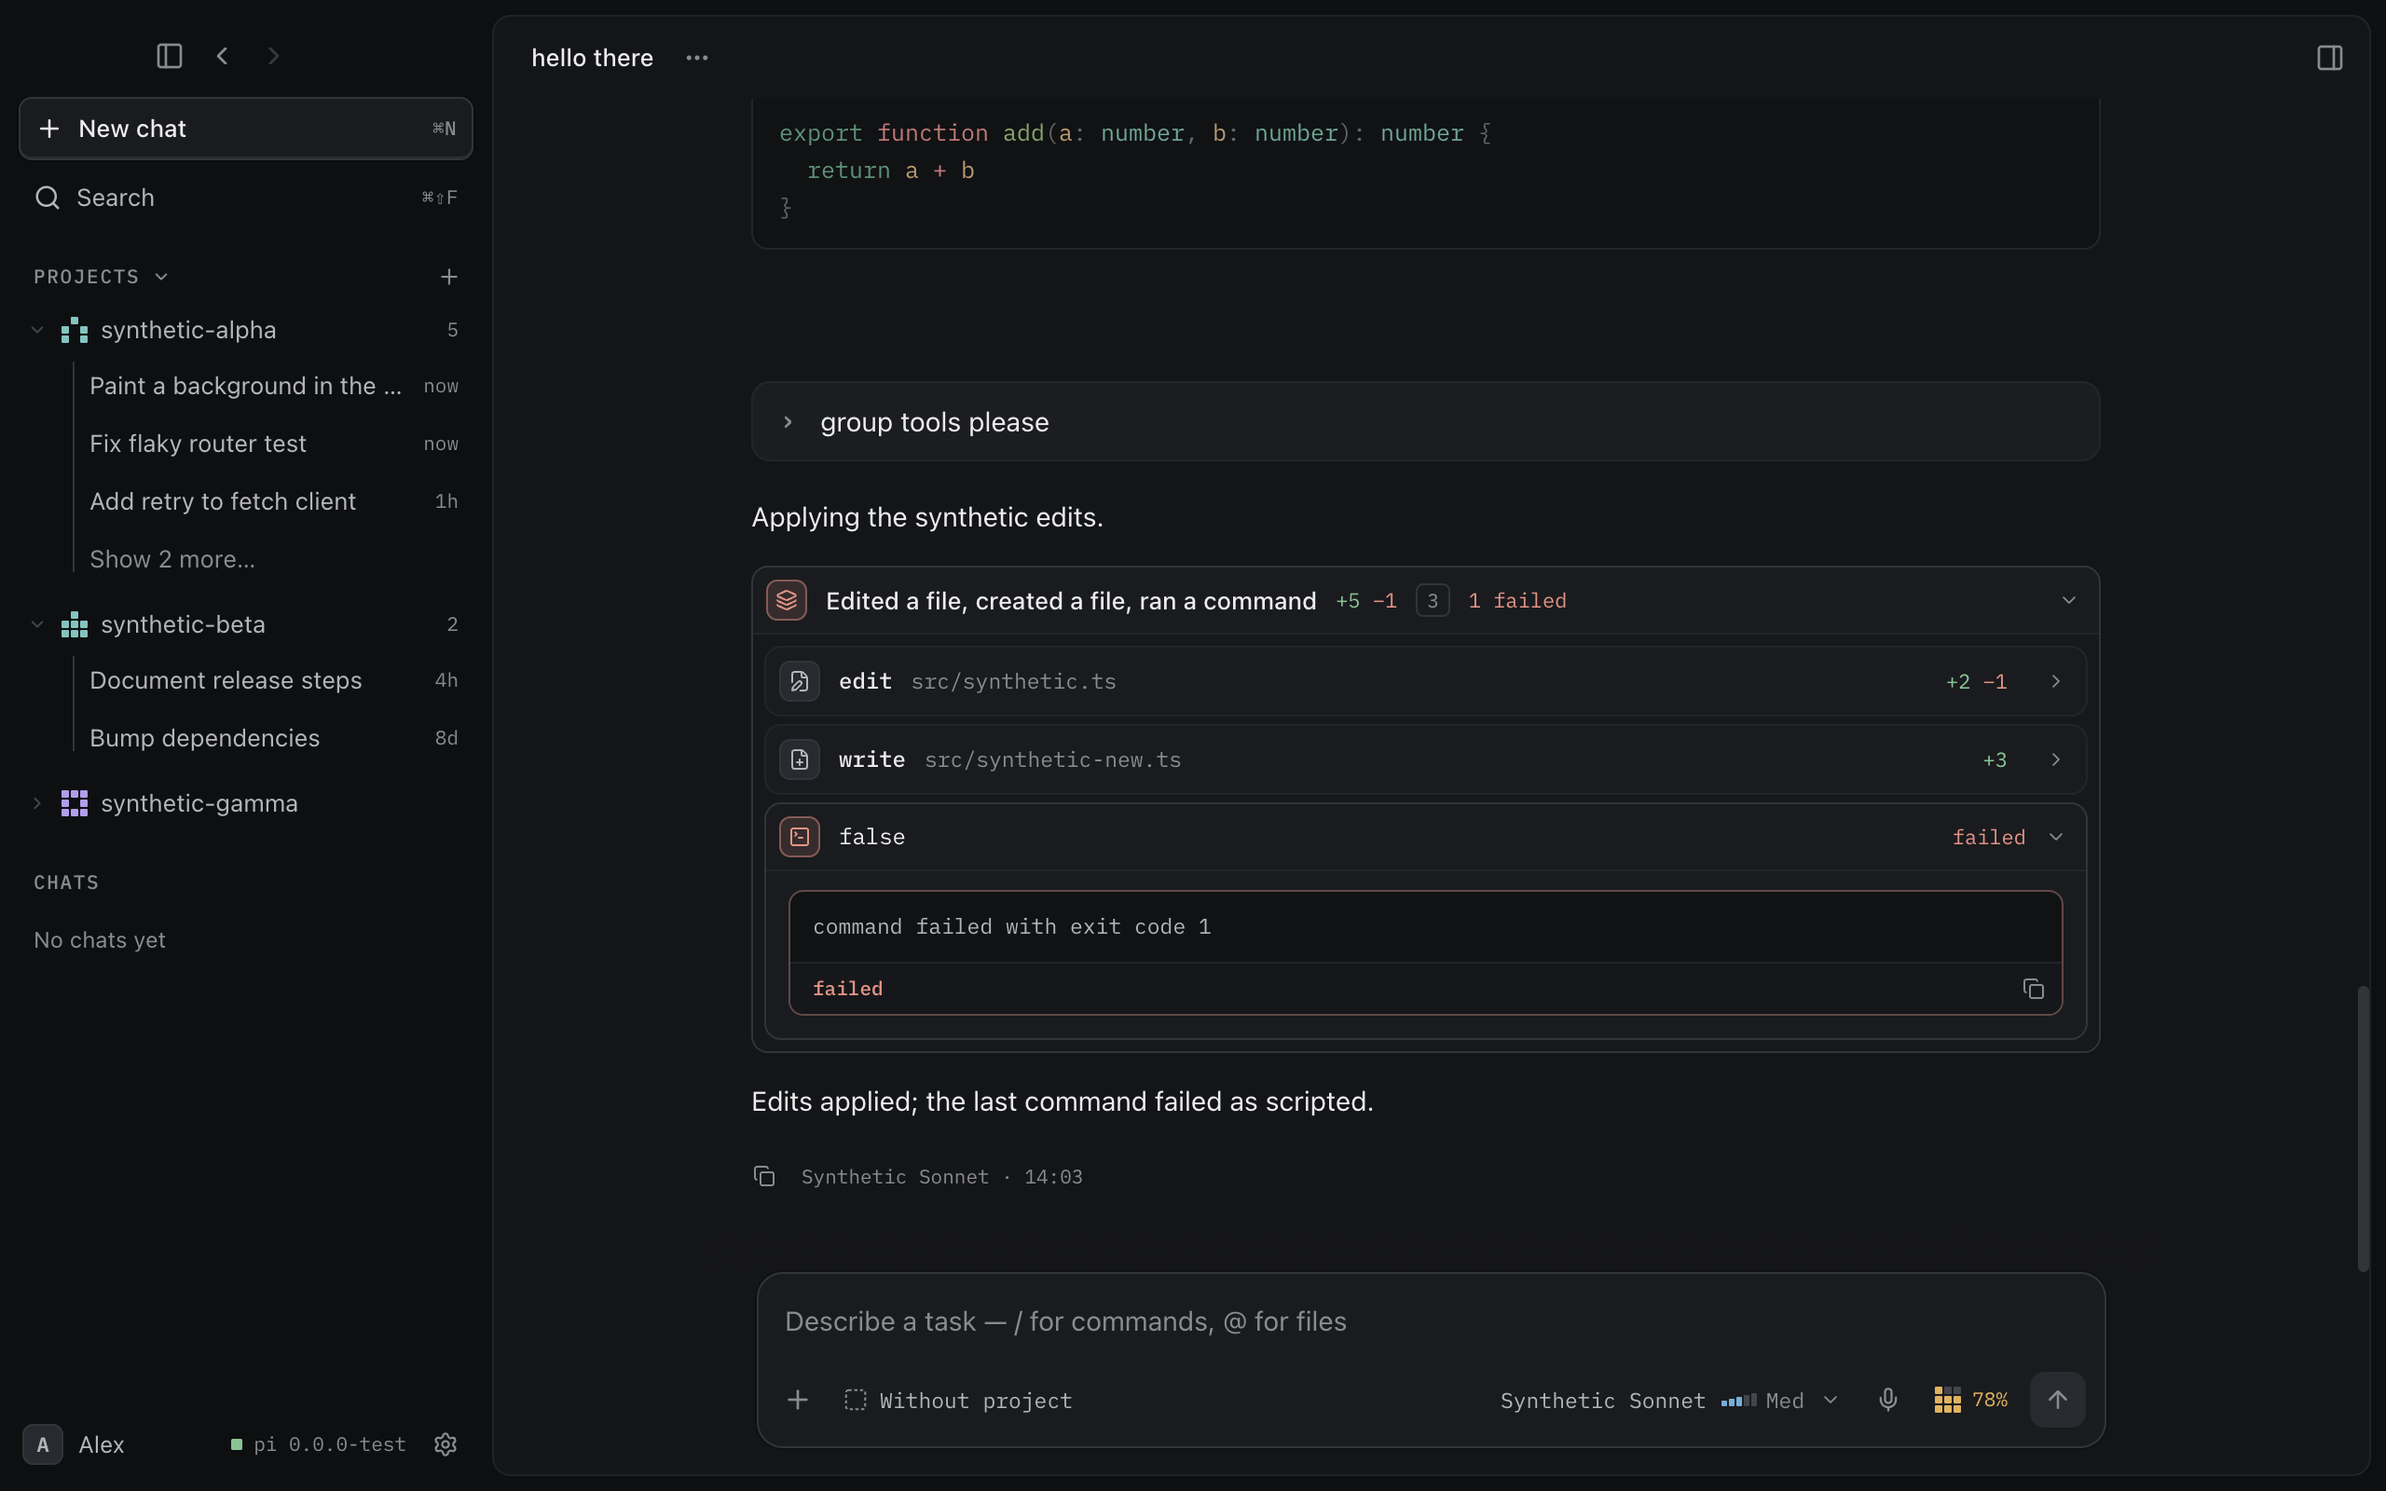
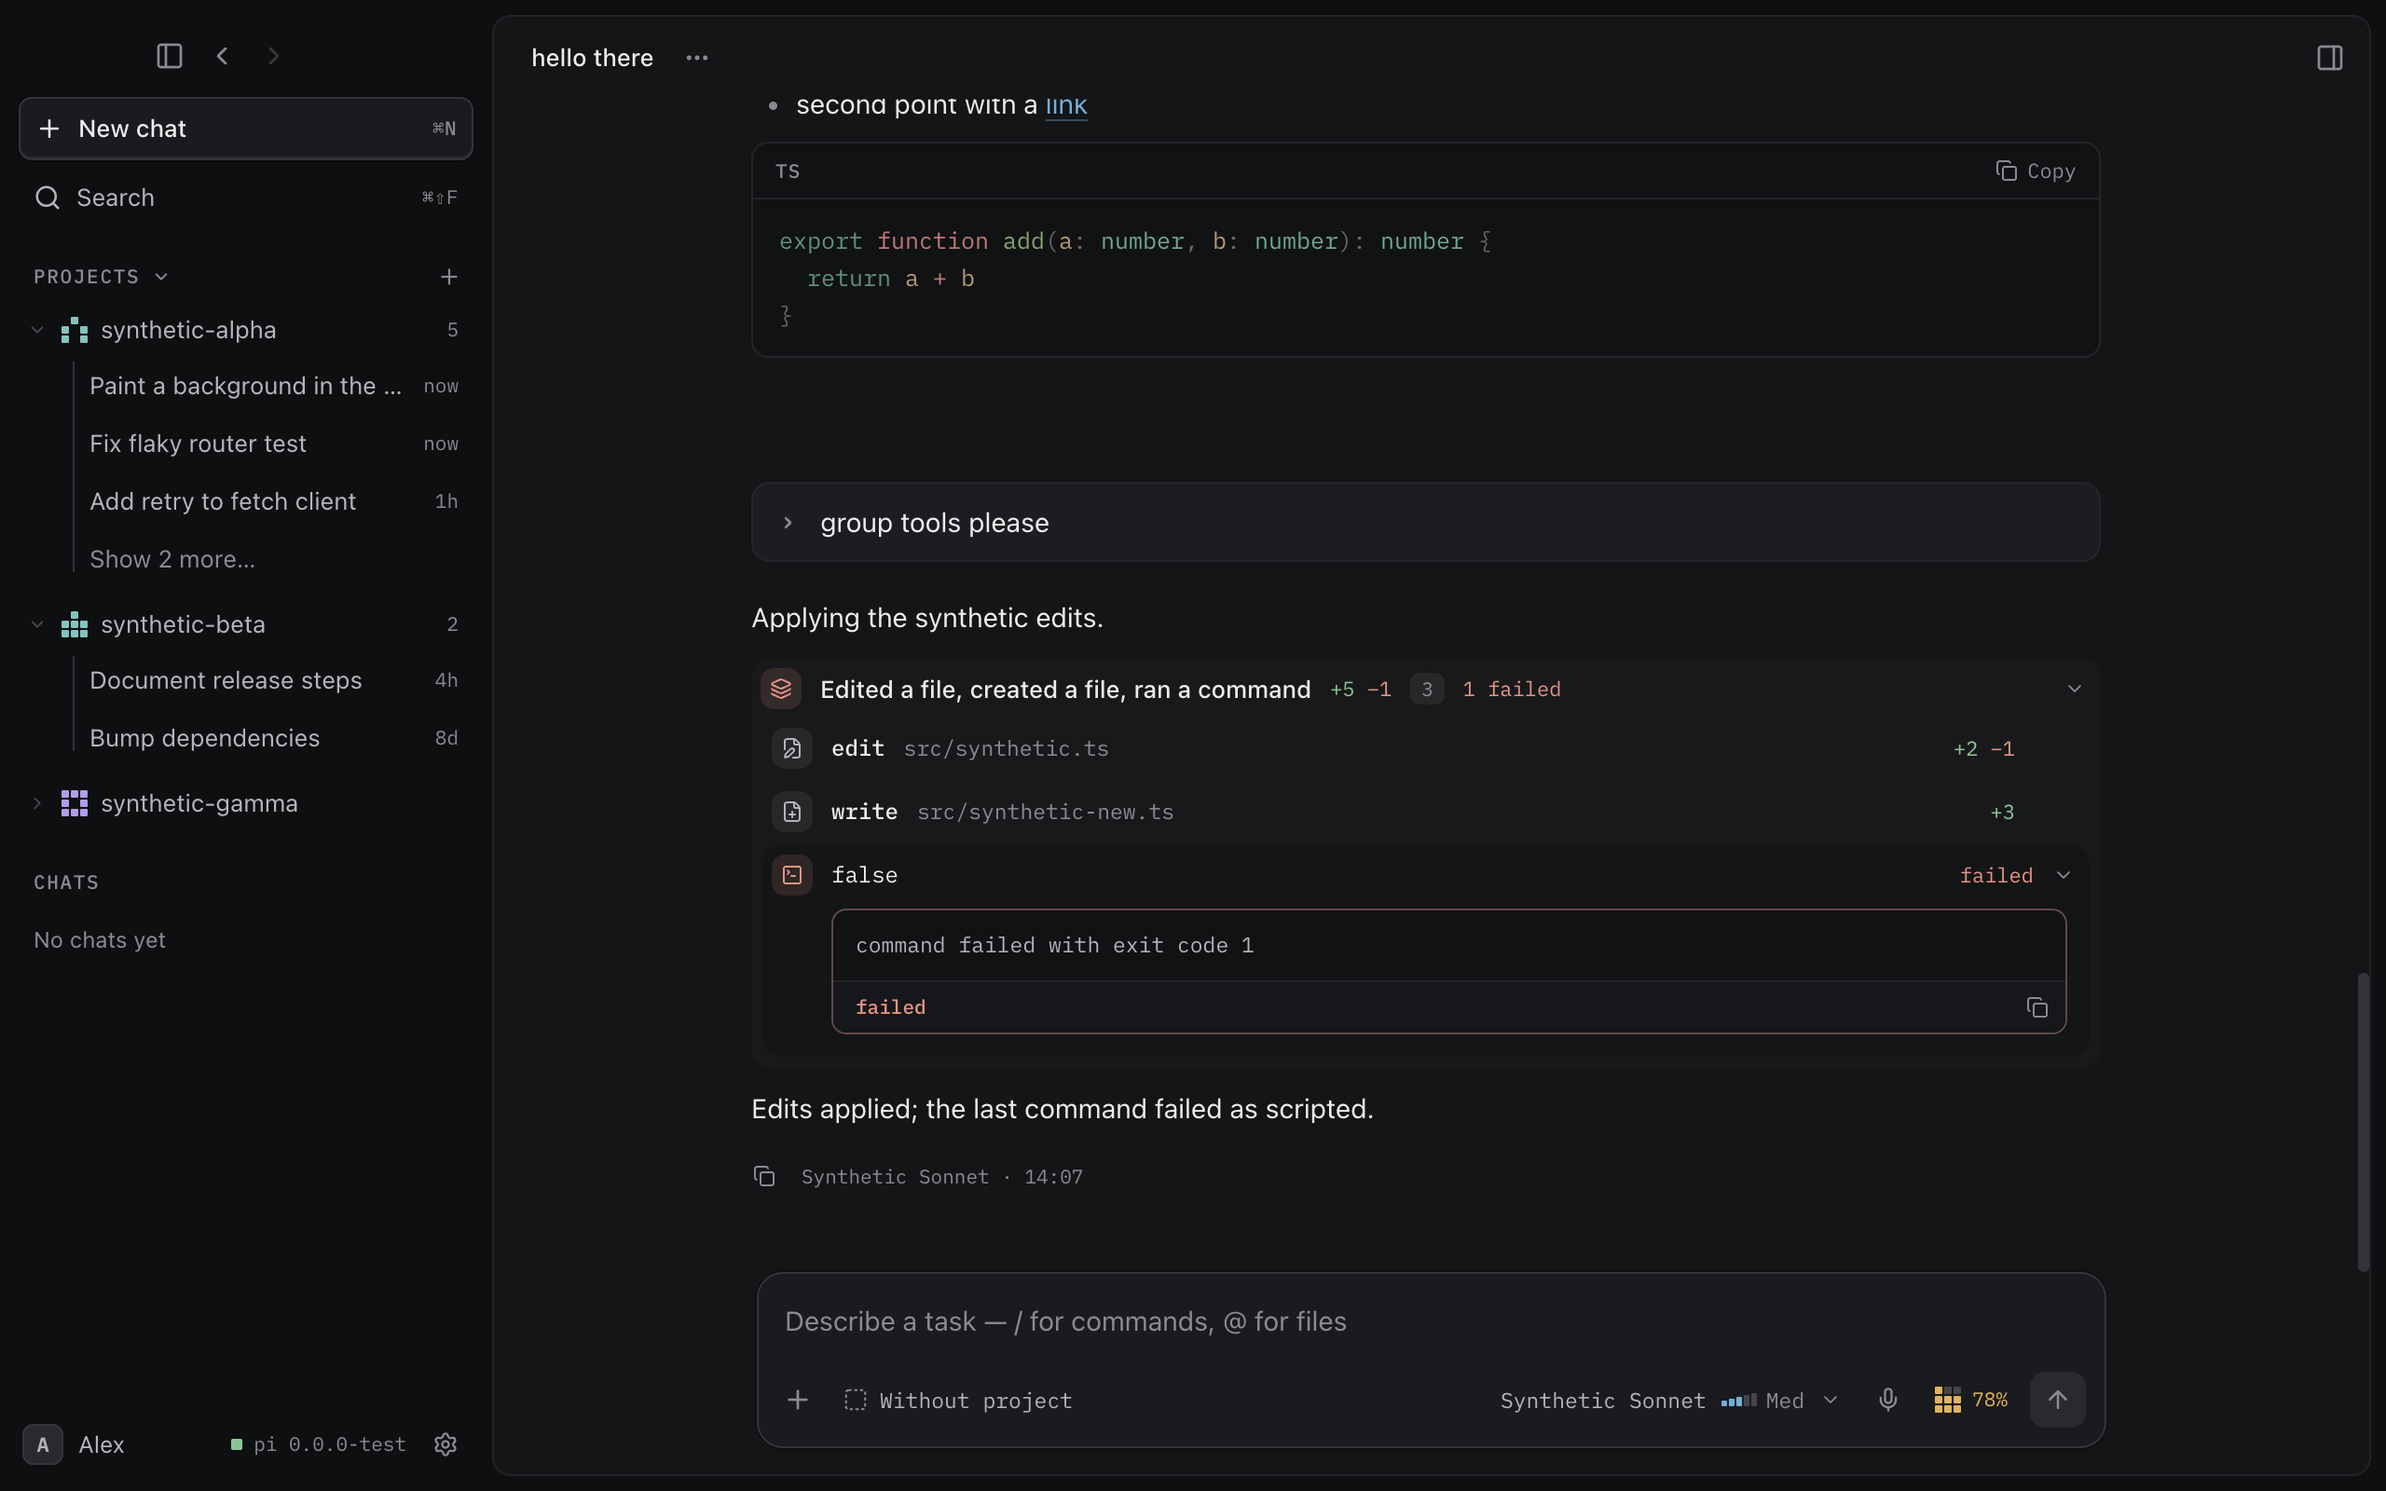
Soften trace steps into a borderless list
The bordered step cards read as heavy. Steps are now borderless rows with
a soft icon tile (kind glyph, state color); hover lifts a row onto a faint
ground, an open step sits on that ground with its detail inside, and a
single chevron turns as it opens. Opening plays a short one-shot settle
(skipped with reduced motion). Rows stack 2px apart.

diff --git a/src/renderer/src/styles/chat.css b/src/renderer/src/styles/chat.css
@@ -227,7 +227,7 @@
   line-height: 1.65;
   display: flex;
   flex-direction: column;
-  gap: 6px;
+  gap: 2px;
 }
 .msg-assistant > :is(.markdown, .msg-image, .msg-error) {
   margin: 8px 0;
@@ -241,7 +241,7 @@
 .msg-turn {
   display: flex;
   flex-direction: column;
-  gap: 6px;
+  gap: 2px;
 }
 /* Prose that opens a message after trace rows gets its gap back. */
 .msg-turn > * + .msg-assistant > .markdown:first-child {
@@ -697,28 +697,21 @@
 }
 
 /* ---------- Trace: thinking and tool calls ----------
- * Every step of agent work is a small card: an icon tile that tells its
- * kind (terminal, file, reasoning…) and, by its color, its state; a one-line
- * header; the detail opens inside the card. */
+ * Agent work reads as a soft list: each step is a row with an icon tile
+ * (its kind; its color is the state), no borders. Hover lifts a row onto a
+ * faint ground; an open step sits on that ground with its detail inside. */
 
 .tool-card,
 .thinking-block {
   display: flex;
   flex-direction: column;
   min-width: 0;
-  border: 1px solid var(--border);
-  border-radius: 9px;
-  background: var(--surface);
-  overflow: hidden;
-  transition: border-color 120ms;
+  border-radius: 10px;
+  transition: background 160ms ease;
 }
-.tool-card:hover,
-.thinking-block:hover {
-  border-color: var(--border-strong);
-}
-/* Reasoning is quieter than actions: no fill, just the outline. */
-.thinking-block {
-  background: transparent;
+.tool-card.is-open,
+.thinking-block.is-open {
+  background: color-mix(in srgb, var(--surface) 75%, transparent);
 }
 
 .tool-row,
@@ -728,25 +721,27 @@
   gap: 10px;
   width: 100%;
   min-width: 0;
-  height: 36px;
+  height: 32px;
   border: none;
   background: transparent;
   color: var(--text-2);
   font-size: 12.5px;
   font-family: inherit;
-  padding: 0 10px 0 7px;
-  border-radius: 0;
+  padding: 0 8px 0 5px;
+  border-radius: 8px;
   cursor: pointer;
   text-align: left;
-  transition: background 120ms;
+  transition:
+    background 160ms ease,
+    color 160ms ease;
 }
 .tool-row:hover,
 .thinking-row:hover {
-  background: var(--surface-hover);
+  background: color-mix(in srgb, var(--surface-hover) 80%, transparent);
 }
-.tool-card.is-open > .tool-row,
-.thinking-block.is-open > .thinking-row {
-  border-bottom: 1px solid var(--border);
+.tool-card.is-open > .tool-row:hover,
+.thinking-block.is-open > .thinking-row:hover {
+  background: transparent;
 }
 
 /* Icon tile: kind glyph; color = state. */
@@ -756,21 +751,21 @@
   justify-content: center;
   width: 22px;
   height: 22px;
-  border-radius: 6px;
+  border-radius: 7px;
   flex-shrink: 0;
-  background: var(--active);
+  background: color-mix(in srgb, var(--text) 7%, transparent);
   color: var(--text-2);
-  box-shadow: inset 0 0 0 1px var(--border-strong);
+  transition:
+    background 160ms ease,
+    color 160ms ease;
 }
 .step-running {
   background: var(--accent-soft);
   color: var(--accent);
-  box-shadow: inset 0 0 0 1px color-mix(in srgb, var(--accent) 50%, transparent);
 }
 .step-error {
-  background: color-mix(in srgb, var(--danger) 14%, transparent);
+  background: color-mix(in srgb, var(--danger) 13%, transparent);
   color: var(--danger);
-  box-shadow: inset 0 0 0 1px color-mix(in srgb, var(--danger) 45%, transparent);
 }
 .step-thinking.step-done {
   background: transparent;
@@ -779,13 +774,18 @@
 
 .thinking-row {
   font-size: 13px;
+  color: var(--muted);
+}
+.thinking-row:hover {
+  color: var(--text-2);
 }
 .thinking-label {
   font-weight: 500;
   flex-shrink: 0;
 }
-.thinking-block.is-live .thinking-label {
-  color: var(--text);
+.thinking-block.is-live .thinking-row,
+.thinking-block.is-open .thinking-row {
+  color: var(--text-2);
 }
 .thinking-row .elapsed {
   font-size: 11px;
@@ -798,7 +798,7 @@
   flex-shrink: 0;
 }
 .thinking-body {
-  padding: 10px 14px 12px 39px;
+  padding: 2px 16px 14px 37px;
   max-height: 440px;
   overflow-y: auto;
 }
@@ -852,22 +852,40 @@
 .tool-error > .tool-row .tool-status {
   color: var(--danger);
 }
-.tool-chevron {
+/* One chevron that turns as the step opens. */
+.tool-chevron,
+.thinking-chevron {
   display: inline-flex;
   color: var(--muted);
   flex-shrink: 0;
+  opacity: 0;
+  transition: opacity 160ms ease;
+}
+.tool-chevron svg,
+.thinking-chevron svg {
+  transition: transform 180ms cubic-bezier(0.2, 0.7, 0.2, 1);
+}
+.tool-row:hover .tool-chevron,
+.thinking-row:hover .thinking-chevron,
+.tool-card.is-open > .tool-row .tool-chevron,
+.thinking-block.is-open > .thinking-row .thinking-chevron {
+  opacity: 1;
+}
+.tool-card.is-open > .tool-row .tool-chevron svg,
+.thinking-block.is-open > .thinking-row .thinking-chevron svg {
+  transform: rotate(90deg);
 }
 
-/* Groups (consecutive tools, folded work): a card whose body lists the
- * step cards on a slightly recessed ground. */
+/* Groups (consecutive tools, folded work): the header reads like a step;
+ * open, the steps list inside the group's soft ground. */
 .tool-group-count {
   font-family: var(--font-mono);
   font-size: 10.5px;
   color: var(--muted);
-  border: 1px solid var(--border-strong);
-  border-radius: 4px;
-  padding: 0 5px;
-  line-height: 16px;
+  background: color-mix(in srgb, var(--text) 7%, transparent);
+  border-radius: 5px;
+  padding: 0 6px;
+  line-height: 17px;
   flex-shrink: 0;
 }
 .tool-group > .tool-row .tool-status {
@@ -877,12 +895,18 @@
 .work-body {
   display: flex;
   flex-direction: column;
-  gap: 4px;
-  padding: 6px;
-  background: color-mix(in srgb, var(--bg) 55%, var(--surface));
+  gap: 2px;
+  padding: 0 6px 6px;
 }
 .work-body .msg-assistant {
-  gap: 4px;
+  gap: 2px;
+}
+/* Steps inside an open group sit on the group's ground; opening one of them
+ * lifts it a step further. */
+.tool-group-body > .tool-card.is-open,
+.work-body .tool-card.is-open,
+.work-body .thinking-block.is-open {
+  background: var(--bg);
 }
 .tool-group-errors {
   font-family: var(--font-mono);
@@ -921,11 +945,37 @@
 }
 
 .tool-detail {
-  padding: 10px 12px 12px;
+  padding: 2px 12px 12px 37px;
   display: flex;
   flex-direction: column;
   gap: 8px;
   min-width: 0;
+}
+
+/* Opening a step: its content settles in once (user action, not a loop). */
+.tool-detail,
+.thinking-body,
+.tool-group-body,
+.work-body {
+  animation: step-open 180ms cubic-bezier(0.2, 0.7, 0.2, 1);
+}
+@keyframes step-open {
+  from {
+    opacity: 0;
+    transform: translateY(-3px);
+  }
+}
+@media (prefers-reduced-motion: reduce) {
+  .tool-detail,
+  .thinking-body,
+  .tool-group-body,
+  .work-body {
+    animation: none;
+  }
+  .tool-chevron svg,
+  .thinking-chevron svg {
+    transition: none;
+  }
 }
 
 /* Shell steps: the header is the command line, the detail a terminal. */
@@ -1427,5 +1477,5 @@ html[data-live-tick='1'] .cua-strip-dot:not(.is-paused) {
 }
 /* Running step tiles dim on the same tick, less deeply than a dot. */
 html[data-live-tick='1'] .step-running {
-  opacity: 0.55;
+  opacity: 0.6;
 }

diff --git a/src/renderer/src/components/ChatView.tsx b/src/renderer/src/components/ChatView.tsx
@@ -262,7 +262,7 @@ function ToolGroup({
           )}
         </span>
         <span className="tool-chevron" aria-hidden="true">
-          {open ? <ChevronDown size={12} /> : <ChevronRight size={12} />}
+          <ChevronRight size={12} />
         </span>
       </button>
       {open && (
@@ -383,7 +383,7 @@ function WorkGroup({
           {thoughts > 0 && `${thoughts} ${thoughts === 1 ? 'thought' : 'thoughts'}`}
         </span>
         <span className="tool-chevron" aria-hidden="true">
-          {open ? <ChevronDown size={12} /> : <ChevronRight size={12} />}
+          <ChevronRight size={12} />
         </span>
       </button>
       {open && <div className="work-body">{children}</div>}

diff --git a/src/renderer/src/components/ThinkingBlock.tsx b/src/renderer/src/components/ThinkingBlock.tsx
@@ -1,4 +1,4 @@
-import { Brain, ChevronDown, ChevronRight } from 'lucide-react'
+import { Brain, ChevronRight } from 'lucide-react'
 import { Suspense, lazy, memo, useState } from 'react'
 import clsx from 'clsx'
 
@@ -44,7 +44,7 @@ export const ThinkingBlock = memo(function ThinkingBlock({
         <span className="thinking-label">{label}</span>
         {live && startedAt !== undefined && <Elapsed since={startedAt} />}
         <span className="thinking-chevron" aria-hidden="true">
-          {open ? <ChevronDown size={12} /> : <ChevronRight size={12} />}
+          <ChevronRight size={12} />
         </span>
       </button>
       {open && (

diff --git a/src/renderer/src/components/ToolCard.tsx b/src/renderer/src/components/ToolCard.tsx
@@ -1,6 +1,5 @@
 import {
   Check,
-  ChevronDown,
   ChevronRight,
   Copy,
   FilePen,
@@ -431,7 +430,7 @@ export const ToolCard = memo(function ToolCard({
           {run.status === 'done' && durationLabel(run)}
         </span>
         <span className="tool-chevron" aria-hidden="true">
-          {open ? <ChevronDown size={12} /> : <ChevronRight size={12} />}
+          <ChevronRight size={12} />
         </span>
       </button>
 

diff --git a/docs/design.md b/docs/design.md
@@ -27,23 +27,23 @@ colors. Everything below follows from that, so new UI should too.
   vibrancy); the main pane and the right panel are sheets (`--bg`) inset by
   8px with a 10px radius and a hairline border. The sidebar sits on the
   chrome directly.
-- **Agent work is a stack of step cards.** Every thinking block and tool
-  call is a small bordered card: an icon tile on the left tells its kind
-  (terminal, read, edit, write, browser, reasoning…) and, by its color, its
-  state — blue outline while running (blinking on the 1 Hz clock), coral when
-  it failed, quiet ink when done. The header is one line (the command for
-  shell steps, tool + path otherwise) with a `+a −r` stat for edits and the
-  duration (hidden under 0.1s); the detail opens inside the card. Reasoning
-  cards have no fill so actions stand out. Consecutive tools fold into a
-  group card with a count and diff stats. Stats count changed lines only:
-  context an edit's old and new text share at either end is not a change
-  (`changedLines` in `lib/tool-summary.ts`).
+- **Agent work is a soft list of steps.** Every thinking block and tool
+  call is a borderless row with an icon tile that tells its kind (terminal,
+  read, edit, write, browser, reasoning…) and, by its color, its state —
+  blue while running (blinking on the 1 Hz clock), coral when it failed,
+  quiet ink when done. Hover lifts a row onto a faint ground; an open step
+  sits on that ground with its detail inside, and its chevron turns. The
+  header is one line (the command for shell steps, tool + path otherwise)
+  with a `+a −r` stat for edits and the duration (hidden under 0.1s).
+  Consecutive tools fold into a group row with a count and diff stats.
+  Stats count changed lines only: context an edit's old and new text share
+  at either end is not a change (`changedLines` in `lib/tool-summary.ts`).
   - *Shell steps* expand into one terminal surface: the output, then a
     footer with the exit status (`exit 0` green, `exit N` / `timed out` /
     `aborted` coral) and a copy button. pi's trailing "Command exited with
     code N" line becomes that footer instead of output (`lib/trace.ts`).
   - *Work groups*: agents often answer in many small messages that are only
-    thinking and a tool call. Two or more in a row fold into one card —
+    thinking and a tool call. Two or more in a row fold into one row —
     "Worked for 2m 15s · Ran 3 commands, edited a file · 6 tools · 6
     thoughts" — open while the turn is live, folded once it settles (the
     user's toggle wins; find-in-chat opens them all).

diff --git a/README.md b/README.md
@@ -17,9 +17,9 @@ compatible with the pi TUI (`pi -r`, `pi --session`) and vice versa.
   shared with the pi TUI. Pin chats to the top or archive them. The home
   screen lists your most recent chats across every project.
 - **Full chat engine** — streaming replies, thinking blocks, markdown with
-  syntax highlighting, agent work as step cards (shell steps as terminal
-  cards with exit status, edits with line stats, consecutive calls folded
-  into one card with diff stats, long runs folded into a "Worked for 2m 15s"
+  syntax highlighting, agent work as a soft list of steps (shell steps as
+  terminal cards with exit status, edits with line stats, consecutive calls
+  folded into one row with diff stats, long runs folded into a "Worked for 2m 15s"
   summary), retry and compaction notices, stop / steer / follow-up
   controls, find in chat (⌘F), and a live `WORKING` timer in the title bar
   while pi works.
